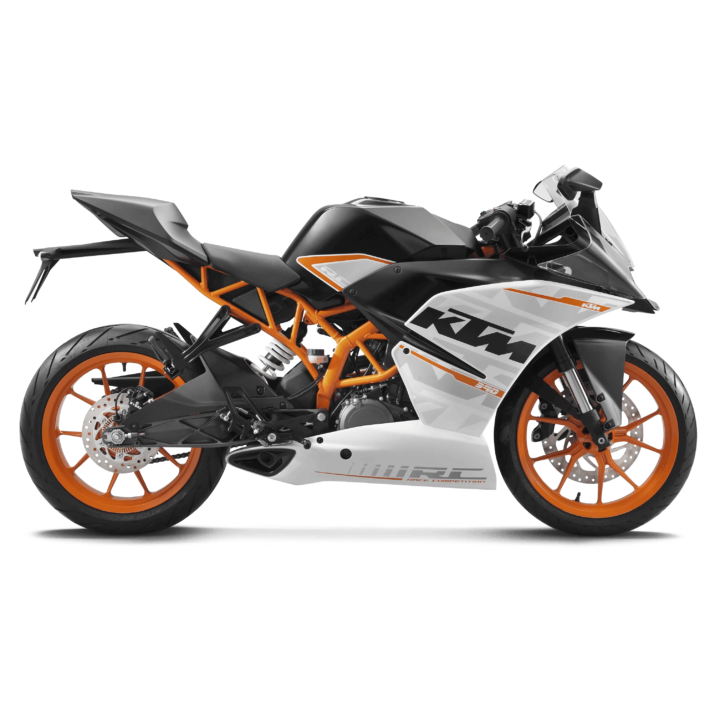
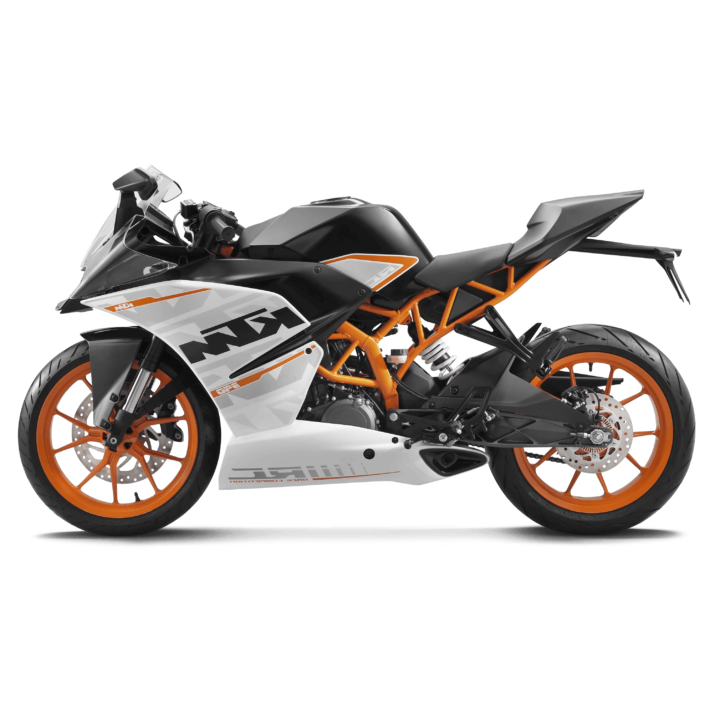
"super.png"

Changed region(s): [[0.0, 0.2154, 0.9846, 0.7692]]

diff --git a/boot.html b/boot.html
@@ -1,0 +1,46 @@
+<!doctype html>
+<html lang="en">
+  <head>
+    <meta charset="utf-8">
+    <meta name="viewport" content="width=device-width, initial-scale=1">
+    <title>Bootstrap demo</title>
+    <link href="https://cdn.jsdelivr.net/npm/bootstrap@5.3.8/dist/css/bootstrap.min.css" rel="stylesheet" integrity="sha384-sRIl4kxILFvY47J16cr9ZwB07vP4J8+LH7qKQnuqkuIAvNWLzeN8tE5YBujZqJLB" crossorigin="anonymous">
+  </head>
+  <body>
+    <nav class="navbar navbar-expand-lg bg-dark navbar-dark">
+  <div class="container-fluid">
+    <a class="navbar-brand" href="#">Navbar</a>
+    <button class="navbar-toggler" type="button" data-bs-toggle="collapse" data-bs-target="#navbarNav" aria-controls="navbarNav" aria-expanded="false" aria-label="Toggle navigation">
+      <span class="navbar-toggler-icon"></span>
+    </button>
+    <div class="collapse navbar-collapse" id="navbarNav">
+      <ul class="navbar-nav">
+        <li class="nav-item">
+          <a class="nav-link active" aria-current="page" href="#">home</a>
+          
+        </li>
+        <li class="nav-item">
+          <a class="nav-link" href="#">bike</a>
+        </li>
+        <li class="nav-item">
+          <a class="nav-link" href="#">features</a>
+        </li>
+        <li class="nav-item">
+          <a class="nav-link disabled" aria-disabled="true">Disabled</a>
+        </li>
+      </ul>
+    </div>
+  </div>
+</nav>
+    <section id="home">
+        <img src="super.png">
+    </section>
+
+
+    <section id="bike">
+        
+    </section>
+    <img src="super.png">
+    <script src="https://cdn.jsdelivr.net/npm/bootstrap@5.3.8/dist/js/bootstrap.bundle.min.js" integrity="sha384-FKyoEForCGlyvwx9Hj09JcYn3nv7wiPVlz7YYwJrWVcXK/BmnVDxM+D2scQbITxI" crossorigin="anonymous"></script>
+  </body>
+</html>

diff --git a/index.html b/index.html
@@ -10,7 +10,7 @@
 <div id ="box1"></div> 
 <div id ="box2"></div> 
 <div id ="box3"></div>
-<div class=" car"><img src="bike.png" alt="car"></div>
+<div class=" car"><img src="super.png" alt="car"></div>
 <a href="vote.html"><button>vote</button></a>
 <a href="vote.html"><button>calculate</button></a>
 </body>
